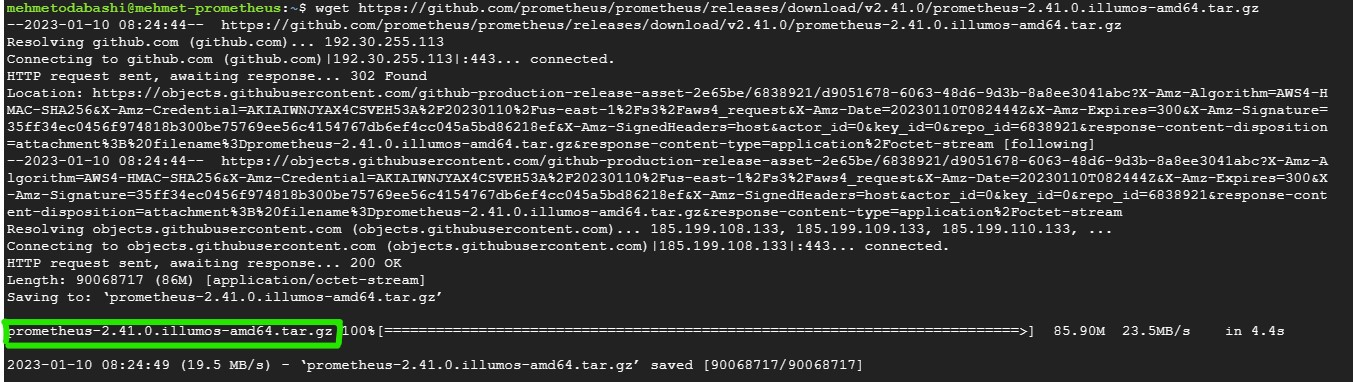
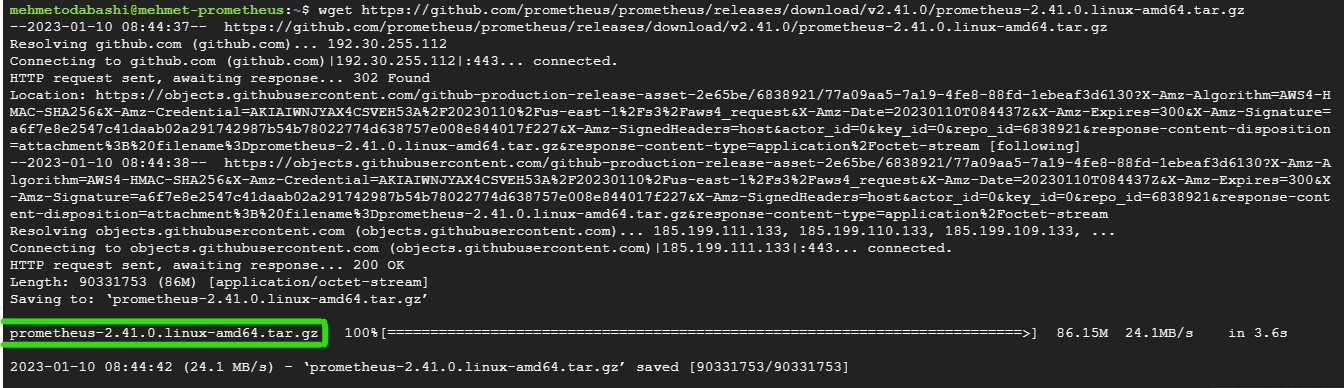
How to start added

Changed region(s): [[0.0, 0.0, 1.0, 0.9791]]

diff --git a/Prometheus/installing-prometheus.md b/Prometheus/installing-prometheus.md
@@ -25,6 +25,26 @@ wget https://github.com/prometheus/prometheus/releases/download/v2.41.0/promethe
 4. Untar the downloaded tar file (extract it)
 
 ```bash
-tar xvf prometheus-2.41.0.illumos-amd64.tar.gz
+tar xvf prometheus-2.41.0.linux-amd64.tar.gz
 ```
 ![files](files.jpg)
+
+5. Check the list of files and directories
+
+```bash
+ls -l
+```
+![directory](directory.jpg)
+
+6. cd into the directory
+
+```bash
+cd prometheus-2.41.0.linux-amd64/
+```
+7. Start prometheus service
+```bash
+./prometheus
+```
+![started](started.jpg)
+
+8. Do not close the terminal window unless you want to stop Prometheus
